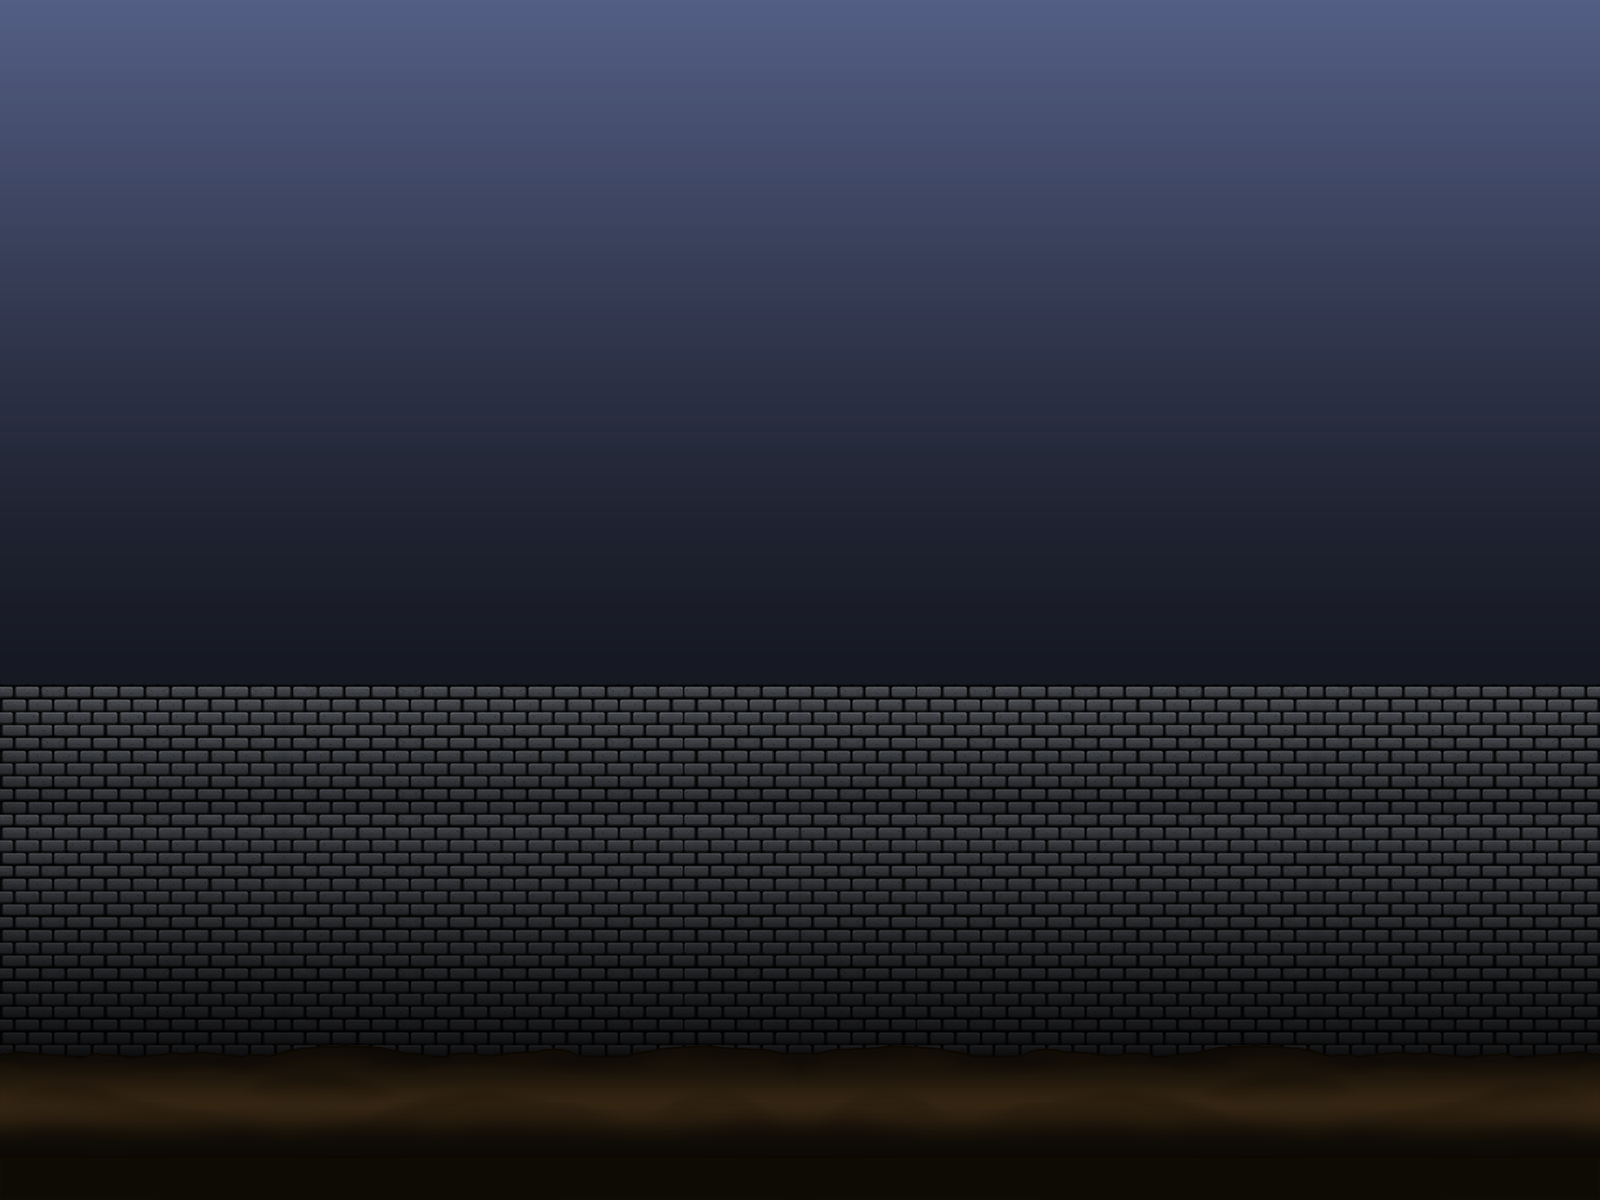
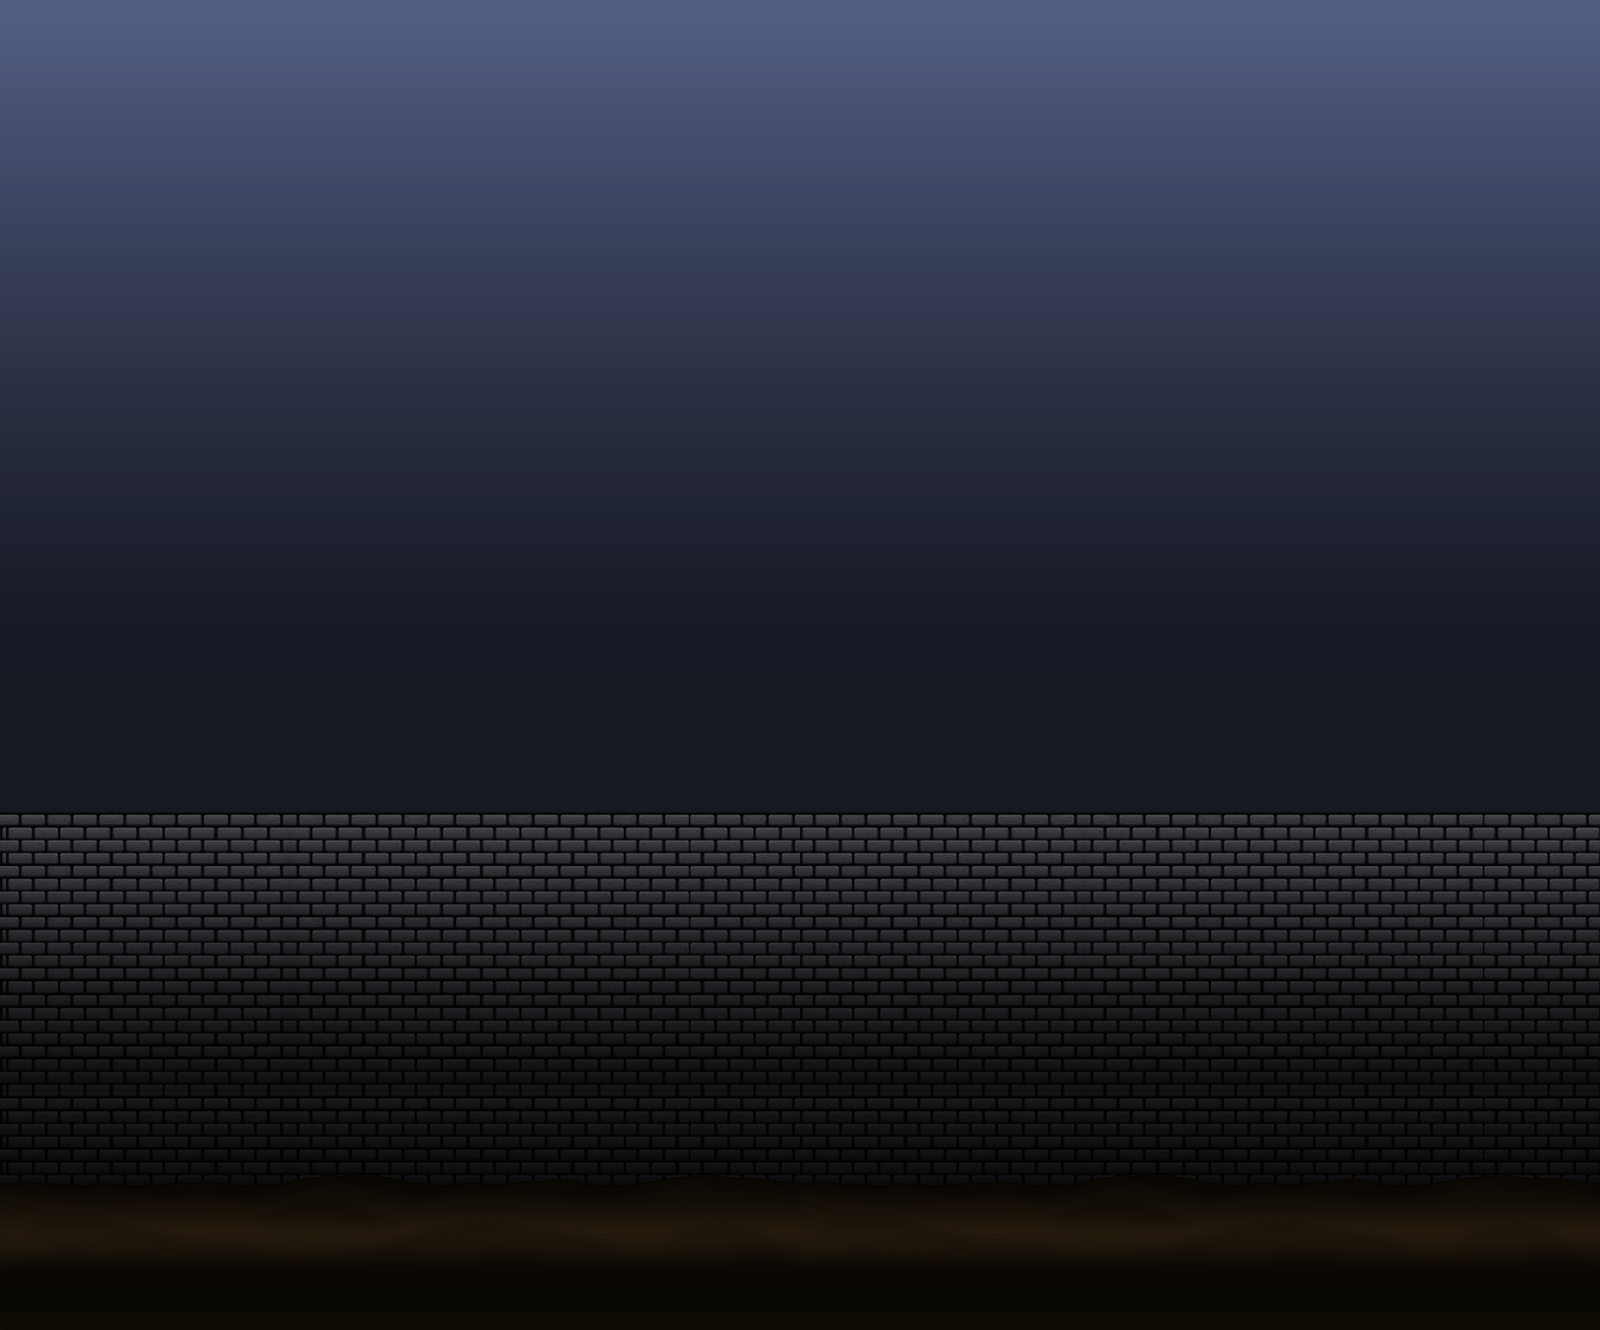
finishing parallax

Changed region(s): [[0.0, 0.555, 1.0, 0.8325]]

diff --git a/src/LevelOne.cpp b/src/LevelOne.cpp
@@ -215,8 +215,8 @@ void LevelOne::render(){
 	const int cameraX = this->camera->getClip().x;
 	const int cameraY = this->camera->getClip().y;
 
-	this->backgroundTop->render(cameraX, 0);
-	this->background->render(0, 0 - cameraY);
+	this->background->render(0, 480 - cameraY);
+	this->backgroundTop->render(-cameraX/8, 1170 - cameraY);
 
 	// Render the tiles in the TileMap.
 	this->tileMap->render(cameraX, cameraY);
